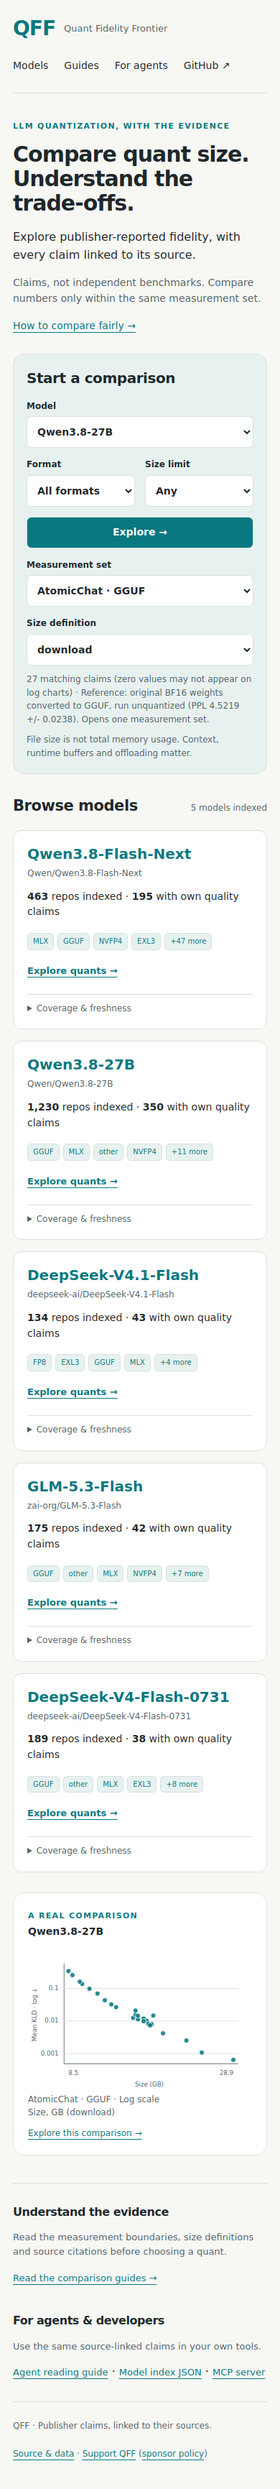
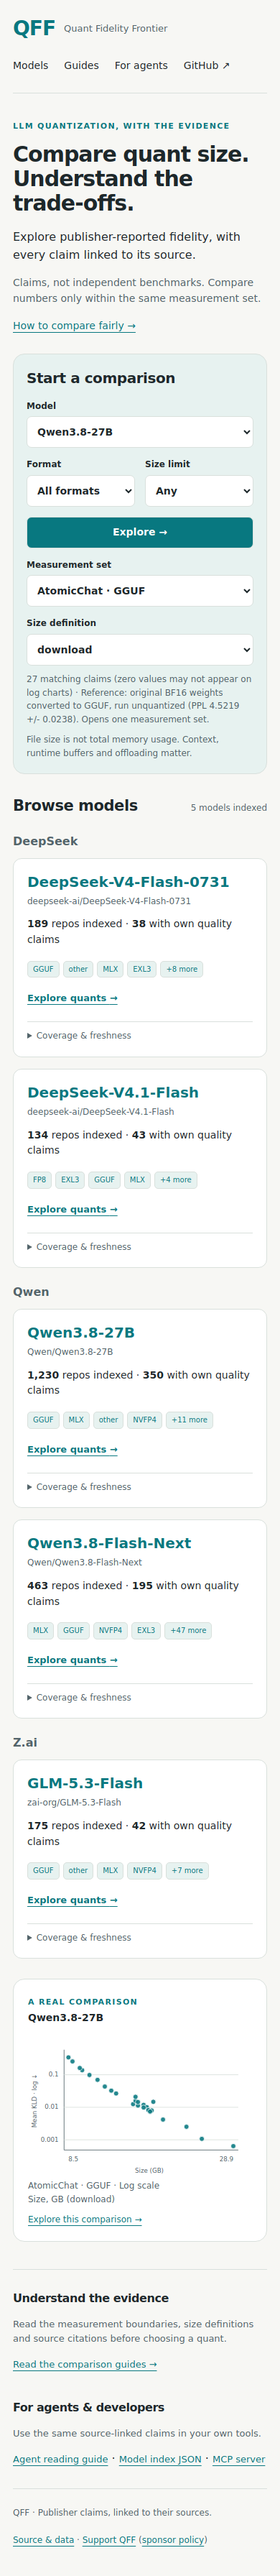
Group homepage models by provider and repository count

diff --git a/web/home.css b/web/home.css
@@ -1,5 +1,7 @@
-:root{--bg:#f7f7f4;--fg:#1d282b;--dim:#53646a;--card:#fff;--line:#d9e0dc;--acc:#087880;--soft:#e7f2f0;color-scheme:light}*{box-sizing:border-box}body{margin:0;background:var(--bg);color:var(--fg);font:16px/1.55 system-ui,-apple-system,"Segoe UI",sans-serif}a{color:var(--acc);text-underline-offset:4px}a:hover{text-decoration:underline}a:focus-visible,button:focus-visible,select:focus-visible,summary:focus-visible{outline:3px solid var(--acc);outline-offset:4px}.shell{max-width:1140px;margin:auto;padding:0 28px}header{display:flex;align-items:center;justify-content:space-between;gap:24px;padding:28px 0;border-bottom:1px solid var(--line)}.brand{display:flex;align-items:center;gap:12px;text-decoration:none}.brand b{font-size:28px;letter-spacing:-1px}.brand span{color:var(--dim);font-size:13px}nav{display:flex;gap:25px}nav a{font-size:14px;color:var(--fg);text-decoration:none;padding:8px 0}.hero{display:grid;grid-template-columns:1.7fr 1fr;gap:56px;align-items:center;padding:44px 0 32px}.eyebrow{font-size:11px;font-weight:750;letter-spacing:.12em;color:var(--acc)}h1{font-size:clamp(30px,3.5vw,44px);line-height:1.13;letter-spacing:-1.5px;margin:14px 0 18px}h2{font-size:22px;letter-spacing:-.45px;margin:0}h3{font-size:20px;line-height:1.3;margin:0}.lede{font-size:18px;max-width:48ch}.trust{color:var(--dim);font-size:14px;max-width:60ch}.text-link{font-size:14px}.preview{margin:0;padding:18px 20px;background:var(--card);border:1px solid var(--line);border-radius:16px}.preview strong{display:block;font-size:14px}.preview svg{width:100%;height:auto;display:block;margin:12px 0 0;overflow:visible}.preview path{stroke:var(--dim);fill:none}.preview .gridline{stroke:var(--line)}.preview circle{fill:var(--acc);stroke:var(--card);stroke-width:1}.preview text{font-size:10px;fill:var(--dim)}.preview p,.preview a{font-size:12px}.preview p{color:var(--dim);margin:6px 0}.quick{background:var(--soft);padding:24px;border:1px solid var(--line);border-radius:16px;margin:0 0 38px}.quick h2{font-size:20px;margin-bottom:14px}.controls{display:grid;grid-template-columns:2fr 1fr 1fr auto;gap:14px;align-items:end}label{display:block;font-size:12px;font-weight:650;min-width:0}select,button{font:inherit;min-height:44px;border:1px solid var(--line);border-radius:7px}select{display:block;width:100%;max-width:100%;padding:9px 10px;margin-top:5px;background:var(--card);color:var(--fg);font-size:14px}button{background:var(--acc);color:white;padding:10px 24px;font-size:14px;font-weight:650;cursor:pointer}button:disabled{opacity:.55;cursor:not-allowed}.context-controls{display:grid;grid-template-columns:2fr 1fr;gap:14px;margin-top:14px}.caution,#selection-note{font-size:12px;color:var(--dim);margin:10px 0 0}.section-heading{display:flex;align-items:center;justify-content:space-between;gap:12px;margin-bottom:18px}.section-heading span{font-size:13px;color:var(--dim)}.model-grid{display:grid;grid-template-columns:repeat(2,minmax(0,1fr));gap:16px}.model-card{padding:23px;background:var(--card);border:1px solid var(--line);border-radius:12px;min-width:0}.model-card:hover{border-color:var(--acc)}.model-card h3 a{text-decoration:none;overflow-wrap:anywhere}.org{font-size:12px;color:var(--dim);margin:5px 0 12px;overflow-wrap:anywhere}.coverage{font-size:14px;margin:0 0 18px}.card-actions{display:flex;align-items:center;justify-content:space-between;gap:12px;flex-wrap:wrap}.pills{display:flex;gap:5px;flex-wrap:wrap}.pill{font-size:10px;color:var(--acc);background:var(--soft);border:1px solid var(--line);padding:3px 7px;border-radius:5px}.explore{font-size:13px;font-weight:650;white-space:nowrap;padding:7px 0}details{font-size:12px;color:var(--dim);margin-top:15px;border-top:1px solid var(--line);padding-top:10px}summary{cursor:pointer}details p{margin:8px 0 0}.resources{display:grid;grid-template-columns:1fr 1fr;gap:36px;border-top:1px solid var(--line);margin:38px 0 0;padding:28px 0}.resources h2{font-size:16px}.resources p,.resources a{font-size:13px}.resources p{color:var(--dim)}footer{border-top:1px solid var(--line);padding:24px 0 40px;display:flex;justify-content:space-between;gap:20px;flex-wrap:wrap;color:var(--dim);font-size:12px}.skip{position:absolute;left:16px;top:-80px;background:var(--card);padding:10px;z-index:2}.skip:focus{top:12px}[hidden]{display:none!important}@media(max-width:760px){.shell{padding:0 18px}header{align-items:flex-start;gap:12px;flex-direction:column;padding:18px 0}nav{gap:22px;width:100%;flex-wrap:wrap}.hero{grid-template-columns:1fr;gap:22px;padding:26px 0}.preview{display:none}h1{letter-spacing:-1px}.lede{font-size:16px}.quick{padding:18px;margin-bottom:28px}.controls{grid-template-columns:1fr 1fr}.controls label:first-child{grid-column:1/-1}.controls button{grid-column:1/-1}.context-controls{grid-template-columns:1fr}.model-grid,.resources{grid-template-columns:1fr}.model-card{padding:19px}.section-heading{align-items:baseline}.section-heading h2{font-size:21px}.section-heading span{font-size:12px}}@media(prefers-color-scheme:dark){:root{--bg:#111819;--fg:#e7eeee;--dim:#adbcbd;--card:#192224;--line:#344345;--acc:#66cbd1;--soft:#1c3537;color-scheme:dark}button{color:#102426}}
+:root{--bg:#f7f7f4;--fg:#1d282b;--dim:#53646a;--card:#fff;--line:#d9e0dc;--acc:#087880;--soft:#e7f2f0;color-scheme:light}*{box-sizing:border-box}body{margin:0;background:var(--bg);color:var(--fg);font:16px/1.55 system-ui,-apple-system,"Segoe UI",sans-serif}a{color:var(--acc);text-underline-offset:4px}a:hover{text-decoration:underline}a:focus-visible,button:focus-visible,select:focus-visible,summary:focus-visible{outline:3px solid var(--acc);outline-offset:4px}.shell{max-width:1140px;margin:auto;padding:0 28px}header{display:flex;align-items:center;justify-content:space-between;gap:24px;padding:28px 0;border-bottom:1px solid var(--line)}.brand{display:flex;align-items:center;gap:12px;text-decoration:none}.brand b{font-size:28px;letter-spacing:-1px}.brand span{color:var(--dim);font-size:13px}nav{display:flex;gap:25px}nav a{font-size:14px;color:var(--fg);text-decoration:none;padding:8px 0}.hero{display:grid;grid-template-columns:1.7fr 1fr;gap:56px;align-items:center;padding:44px 0 32px}.eyebrow{font-size:11px;font-weight:750;letter-spacing:.12em;color:var(--acc)}h1{font-size:clamp(30px,3.5vw,44px);line-height:1.13;letter-spacing:-1.5px;margin:14px 0 18px}h2{font-size:22px;letter-spacing:-.45px;margin:0}h3{font-size:20px;line-height:1.3;margin:0}.lede{font-size:18px;max-width:48ch}.trust{color:var(--dim);font-size:14px;max-width:60ch}.text-link{font-size:14px}.preview{margin:0;padding:18px 20px;background:var(--card);border:1px solid var(--line);border-radius:16px}.preview strong{display:block;font-size:14px}.preview svg{width:100%;height:auto;display:block;margin:12px 0 0;overflow:visible}.preview path{stroke:var(--dim);fill:none}.preview .gridline{stroke:var(--line)}.preview circle{fill:var(--acc);stroke:var(--card);stroke-width:1}.preview text{font-size:10px;fill:var(--dim)}.preview p,.preview a{font-size:12px}.preview p{color:var(--dim);margin:6px 0}.quick{background:var(--soft);padding:24px;border:1px solid var(--line);border-radius:16px;margin:0 0 38px}.quick h2{font-size:20px;margin-bottom:14px}.controls{display:grid;grid-template-columns:2fr 1fr 1fr auto;gap:14px;align-items:end}label{display:block;font-size:12px;font-weight:650;min-width:0}select,button{font:inherit;min-height:44px;border:1px solid var(--line);border-radius:7px}select{display:block;width:100%;max-width:100%;padding:9px 10px;margin-top:5px;background:var(--card);color:var(--fg);font-size:14px}button{background:var(--acc);color:white;padding:10px 24px;font-size:14px;font-weight:650;cursor:pointer}button:disabled{opacity:.55;cursor:not-allowed}.context-controls{display:grid;grid-template-columns:2fr 1fr;gap:14px;margin-top:14px}.caution,#selection-note{font-size:12px;color:var(--dim);margin:10px 0 0}.section-heading{display:flex;align-items:center;justify-content:space-between;gap:12px;margin-bottom:18px}.section-heading span{font-size:13px;color:var(--dim)}.model-grid{display:grid;grid-template-columns:repeat(2,minmax(0,1fr));gap:16px}.model-card{padding:23px;background:var(--card);border:1px solid var(--line);border-radius:12px;min-width:0}.model-card:hover{border-color:var(--acc)}.model-card h4 a{text-decoration:none;overflow-wrap:anywhere}.org{font-size:12px;color:var(--dim);margin:5px 0 12px;overflow-wrap:anywhere}.coverage{font-size:14px;margin:0 0 18px}.card-actions{display:flex;align-items:center;justify-content:space-between;gap:12px;flex-wrap:wrap}.pills{display:flex;gap:5px;flex-wrap:wrap}.pill{font-size:10px;color:var(--acc);background:var(--soft);border:1px solid var(--line);padding:3px 7px;border-radius:5px}.explore{font-size:13px;font-weight:650;white-space:nowrap;padding:7px 0}details{font-size:12px;color:var(--dim);margin-top:15px;border-top:1px solid var(--line);padding-top:10px}summary{cursor:pointer}details p{margin:8px 0 0}.resources{display:grid;grid-template-columns:1fr 1fr;gap:36px;border-top:1px solid var(--line);margin:38px 0 0;padding:28px 0}.resources h2{font-size:16px}.resources p,.resources a{font-size:13px}.resources p{color:var(--dim)}footer{border-top:1px solid var(--line);padding:24px 0 40px;display:flex;justify-content:space-between;gap:20px;flex-wrap:wrap;color:var(--dim);font-size:12px}.skip{position:absolute;left:16px;top:-80px;background:var(--card);padding:10px;z-index:2}.skip:focus{top:12px}[hidden]{display:none!important}@media(max-width:760px){.shell{padding:0 18px}header{align-items:flex-start;gap:12px;flex-direction:column;padding:18px 0}nav{gap:22px;width:100%;flex-wrap:wrap}.hero{grid-template-columns:1fr;gap:22px;padding:26px 0}.preview{display:none}h1{letter-spacing:-1px}.lede{font-size:16px}.quick{padding:18px;margin-bottom:28px}.controls{grid-template-columns:1fr 1fr}.controls label:first-child{grid-column:1/-1}.controls button{grid-column:1/-1}.context-controls{grid-template-columns:1fr}.model-grid,.resources{grid-template-columns:1fr}.model-card{padding:19px}.section-heading{align-items:baseline}.section-heading h2{font-size:21px}.section-heading span{font-size:12px}}@media(prefers-color-scheme:dark){:root{--bg:#111819;--fg:#e7eeee;--dim:#adbcbd;--card:#192224;--line:#344345;--acc:#66cbd1;--soft:#1c3537;color-scheme:dark}button{color:#102426}}
 @media(max-width:760px){main{display:flex;flex-direction:column}.hero{display:contents}.hero>div{order:0;padding:26px 0}.quick{order:1}#models{order:2}.preview{display:block;order:3;margin-top:28px;max-width:420px;width:100%;align-self:center}.resources{order:4}footer{order:5}}
 /* Give the logarithmic preview enough height to distinguish low-KLD quants. */
 @media(min-width:761px){.hero{grid-template-columns:1.6fr 1fr;gap:36px;padding:30px 0}.preview{padding:16px 18px}.model-card{padding:19px 22px}}
 .preview circle{opacity:.88}.preview circle:hover{opacity:1;stroke:var(--fg);stroke-width:2}
+
+.provider-group{margin-top:24px}.provider-group>h3{font-size:16px;color:var(--dim);margin:0 0 12px}.model-card h4{font-size:20px;line-height:1.3;margin:0}

diff --git a/homepage.py b/homepage.py
@@ -18,7 +18,7 @@ def family(value):
 def build_homepage(out, models, base, analytics, support):
     out = Path(out)
     esc = lambda s: html.escape(str(s), quote=True)
-    catalog, cards = [], []
+    catalog, cards = [], {}
     preview = None
     for model in models:
         data = json.loads((out / model['data']).read_text())
@@ -54,10 +54,18 @@ def build_homepage(out, models, base, analytics, support):
         captured = (model.get('captured_at') or 'Unknown')[:10]
         checked = model.get('checked_at')
         scan = f'Checked for new repos: {checked[:16].replace("T", " ")} UTC' if checked else 'New-repo scan time unavailable'
-        cards.append(f'''<article class="model-card"><h3><a href="{esc(target)}">{esc(entry['name'])}</a></h3>
+        cards[model['slug']] = f'''<article class="model-card"><h4><a href="{esc(target)}">{esc(entry['name'])}</a></h4>
 <p class="org">{esc(model['model'])}</p><p class="coverage"><strong>{model['repos']:,}</strong> repos indexed · <strong>{len(quality):,}</strong> with own quality claims</p>
 <div class="card-actions"><div class="pills">{pills}</div><a class="explore" href="{esc(target)}">Explore quants <span aria-hidden="true">→</span></a></div>
-<details><summary>Coverage &amp; freshness</summary><p>{model['rows']:,} claim rows · {model['sets']} measurement sets<br>Cards captured: {esc(captured)}<br>{esc(scan)}</p></details></article>''')
+<details><summary>Coverage &amp; freshness</summary><p>{model['rows']:,} claim rows · {model['sets']} measurement sets<br>Cards captured: {esc(captured)}<br>{esc(scan)}</p></details></article>'''
+    provider_names = {'deepseek-ai': 'DeepSeek', 'Qwen': 'Qwen', 'zai-org': 'Z.ai'}
+    def provider(m):
+        owner = m['model'].split('/')[0]
+        return provider_names.get(owner, owner)
+    groups = {}
+    for model in sorted(models, key=lambda m: (provider(m).casefold(), -m['repos'], m['model'].casefold())):
+        groups.setdefault(provider(model), []).append(cards[model['slug']])
+    grouped_cards = ''.join(f'<section class="provider-group" aria-label="{esc(name)} models"><h3>{esc(name)}</h3><div class="model-grid">{"".join(items)}</div></section>' for name, items in groups.items())
     chart = ''
     if preview:
         model, source, points = preview
@@ -95,7 +103,7 @@ def build_homepage(out, models, base, analytics, support):
 <a class="skip" href="#models">Skip to models</a><div class="shell"><header><a class="brand" href="./"><b>QFF</b><span>Quant Fidelity Frontier</span></a><nav aria-label="Main"><a href="#models">Models</a><a href="guides/">Guides</a><a href="#agents">For agents</a><a href="https://github.com/delirious6423/quant-fidelity-frontier">GitHub ↗</a></nav></header>
 <main><section class="hero" aria-labelledby="intro"><div><p class="eyebrow">LLM QUANTIZATION, WITH THE EVIDENCE</p><h1 id="intro">Compare quant size.<br>Understand the trade-offs.</h1><p class="lede">Explore publisher-reported fidelity, with every claim linked to its source.</p><p class="trust">Claims, not independent benchmarks. Compare numbers only within the same measurement set.</p><a class="text-link" href="guides/">How to compare fairly →</a></div>{chart}</section>
 <section class="quick" id="quick" hidden aria-labelledby="quick-title"><h2 id="quick-title">Start a comparison</h2><form id="start-form"><div class="controls"><label>Model<select id="home-model">{options}</select></label><label>Format<select id="home-format"></select></label><label>Size limit<select id="home-limit"><option value="">Any</option>{''.join(f'<option value="{n}">≤ {n} GB</option>' for n in (16,24,32,48,64,96,128,192,256))}</select></label><button type="submit" id="start">Explore →</button></div><div class="context-controls"><label>Measurement set<select id="home-set"></select></label><label>Size definition<select id="home-basis"></select></label></div><p id="selection-note" role="status"></p><p class="caution">File size is not total memory usage. Context, runtime buffers and offloading matter.</p></form></section>
-<section id="models" aria-labelledby="browse"><div class="section-heading"><h2 id="browse">Browse models</h2><span>{len(models)} models indexed</span></div><div class="model-grid">{''.join(cards)}</div></section>
+<section id="models" aria-labelledby="browse"><div class="section-heading"><h2 id="browse">Browse models</h2><span>{len(models)} models indexed</span></div>{grouped_cards}</section>
 <section class="resources" id="agents"><div><h2>Understand the evidence</h2><p>Read the measurement boundaries, size definitions and source citations before choosing a quant.</p><a href="guides/">Read the comparison guides →</a></div><div><h2>For agents &amp; developers</h2><p>Use the same source-linked claims in your own tools.</p><a href="llms.txt">Agent reading guide</a> · <a href="models.json">Model index JSON</a> · <a href="https://github.com/delirious6423/quant-fidelity-frontier/tree/main/qff_mcp">MCP server</a></div></section>
 <footer><span>QFF · Publisher claims, linked to their sources.</span><span><a href="https://github.com/delirious6423/quant-fidelity-frontier">Source &amp; data</a>{support}</span></footer></main></div><script id="home-data" type="application/json">{payload}</script></body></html>'''
     (out / 'index.html').write_text(page)

diff --git a/tests/test_homepage.py b/tests/test_homepage.py
@@ -30,6 +30,11 @@ async def main():
             page.on('pageerror', lambda e: errors.append(str(e)))
             await page.goto(HOME)
             assert await page.locator('.model-card').count() == len(manifest)
+            names = {'deepseek-ai':'DeepSeek','Qwen':'Qwen','zai-org':'Z.ai'}
+            provider = lambda m: names.get(m['model'].split('/')[0], m['model'].split('/')[0])
+            expected = sorted(manifest, key=lambda m: (provider(m).casefold(), -m['repos'], m['model'].casefold()))
+            assert await page.locator('.provider-group > h3').all_text_contents() == sorted({provider(m) for m in manifest}, key=str.casefold)
+            assert await page.locator('.model-card h4 a').all_text_contents() == [m['model'].split('/')[-1] for m in expected]
             assert await page.locator('#quick').is_visible()
             assert await page.input_value('#home-model') == 'qwen3.8-27b'
             assert await page.input_value('#home-set') == 'a-atomicchat-gguf'
@@ -78,7 +83,7 @@ async def main():
             await page.close()
         page = await browser.new_page(java_script_enabled=False)
         await page.goto(HOME)
-        assert await page.locator('.model-card h3 a').count() == len(manifest)
+        assert await page.locator('.model-card h4 a').count() == len(manifest)
         assert not await page.locator('#quick').is_visible()
         print('PASS: model navigation remains available without JavaScript')
         await browser.close()

diff --git a/PROGRESS.md b/PROGRESS.md
@@ -82,3 +82,4 @@
 - Review screenshots: `docs/previews/homepage-desktop.png` and `docs/previews/homepage-mobile.png`. Merge/deployment remains for owner review.
 - Owner refinement: Qwen3.8-27B now supplies the example chart and quick-start default. Uses AtomicChat's 27 source-linked KLD points, all with download-size basis; the preview and selected measurement set agree. Other model ordering remains unchanged.
 - Owner visual correction: homepage Mean KLD preview now uses an explicitly labeled logarithmic y-axis and a taller plot, retaining all 27 actual positive KLD values. Source values and linear GB x-axis are unchanged. No illustrative/jittered points. Regression checks verify the log label and vertical spread.
+- Browse models now groups by base-model provider (DeepSeek, Qwen, Z.ai), providers A–Z, and repository count descending within each provider. Ties use model name A–Z. Qwen3.8-27B remains the quick-start default and chart example. Browser regression checks validate grouping and model order against the manifest.
